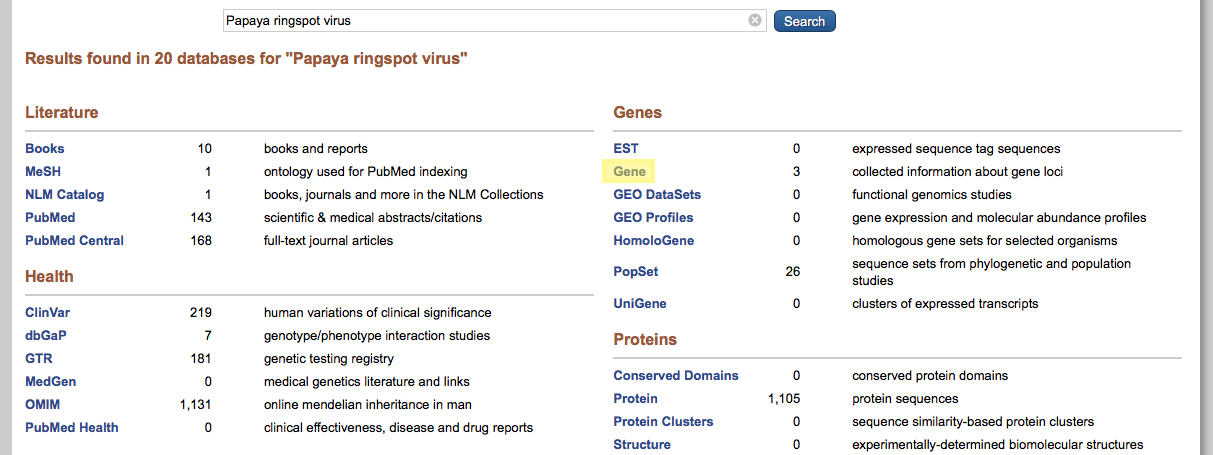
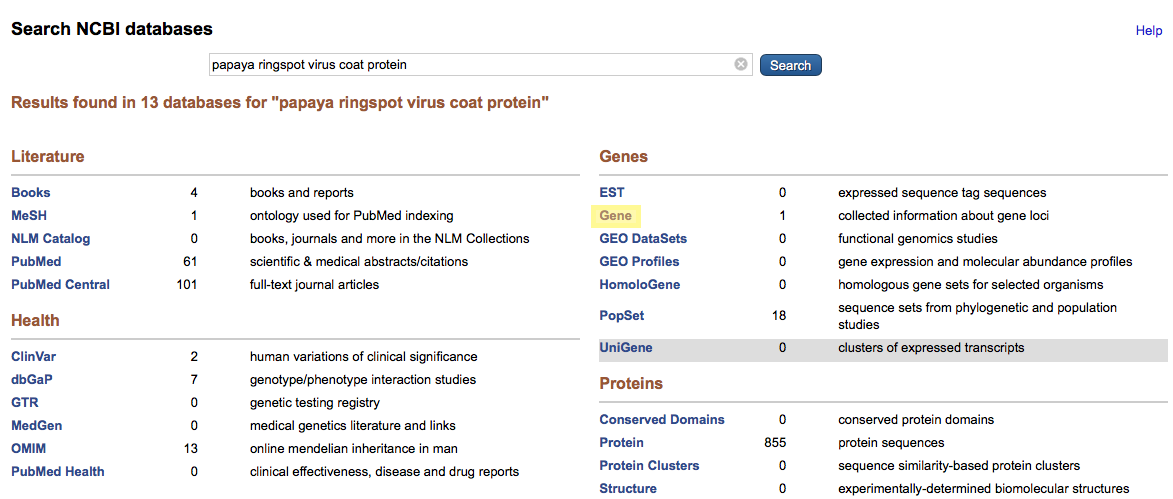
Initial Commit

diff --git a/README.md b/README.md
@@ -315,7 +315,7 @@ The goal of this example is to locate the raw sequence of the CP gene from the N
 
 ####Find the CP sequence 
 
-Navigate to the NCBI website and search for the Papaya ringspot virus in all databases. 
+Navigate to the NCBI website and search for the Papaya ringspot virus coat protein in all databases. 
 
 <p align="center">
 <kbd>g
@@ -330,3 +330,28 @@ From the results list, navigate to the **Gene** database.
   <img src="ExampleOne_Two.png">
 </kbd>
 </p>
+
+You are now looking at a lot of information related to the PRSVgp1 gene in the Papaya ringspot virus. Much of this information requires a deeper look at the genetics of viruses (a quick overview is [here](http://www.course-notes.org/Biology/Outlines/Chapter_18_The_Genetics_of_Viruses_and_Bacteria)), but what we need is found beneath the subsection *NCBI Reference Sequences*. Here, you'll see the reference assembly *NC_001795.1*. Click on the link marked FASTA. (Note - FASTA is a data type that you may want to become familiar with. More information is available [here](https://blast.ncbi.nlm.nih.gov/Blast.cgi?CMD=Web&PAGE_TYPE=BlastDocs&DOC_TYPE=BlastHelp)). 
+
+<p align="center">
+<kbd>g
+  <img src="ExampleOne_Three.png">
+</kbd>
+</p>
+
+The FASTA sequence you see is the entire genome of the PRSV. 
+
+<p align="center">
+<kbd>g
+  <img src="ExampleOne_Four.png">
+</kbd>
+</p>
+
+On the right hand side of the screen, beneath the section *Analyze this sequence*, you'll see an option to *Run BLAST*. Click this link. 
+
+<p align="center">
+<kbd>g
+  <img src="ExampleOne_Four.png">
+</kbd>
+</p>
+
